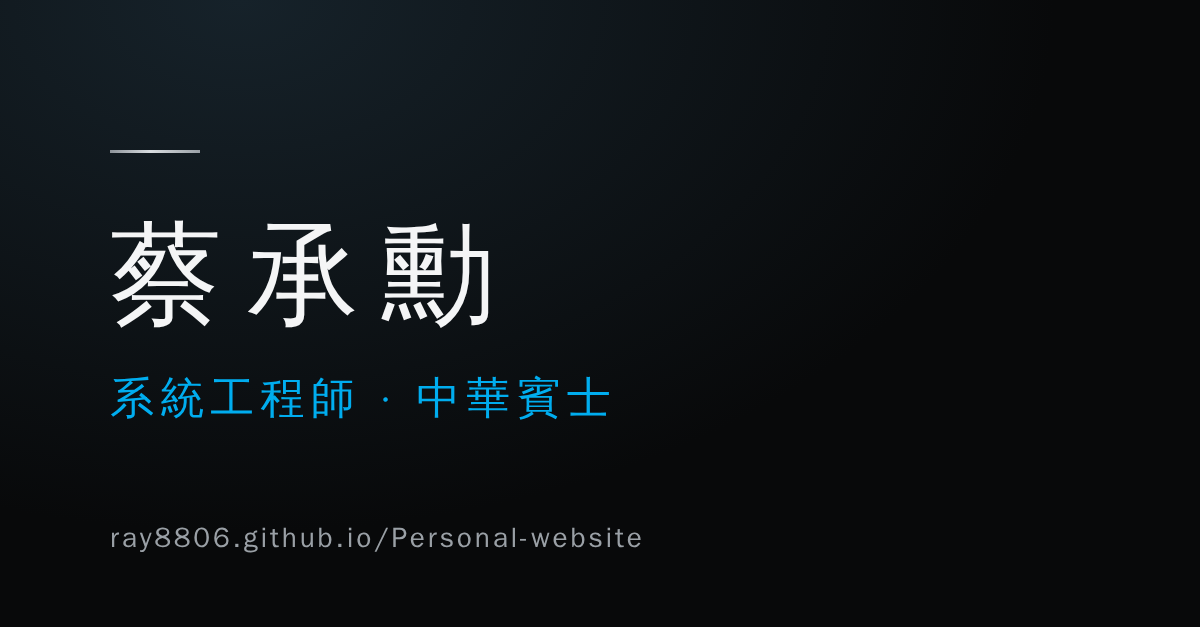
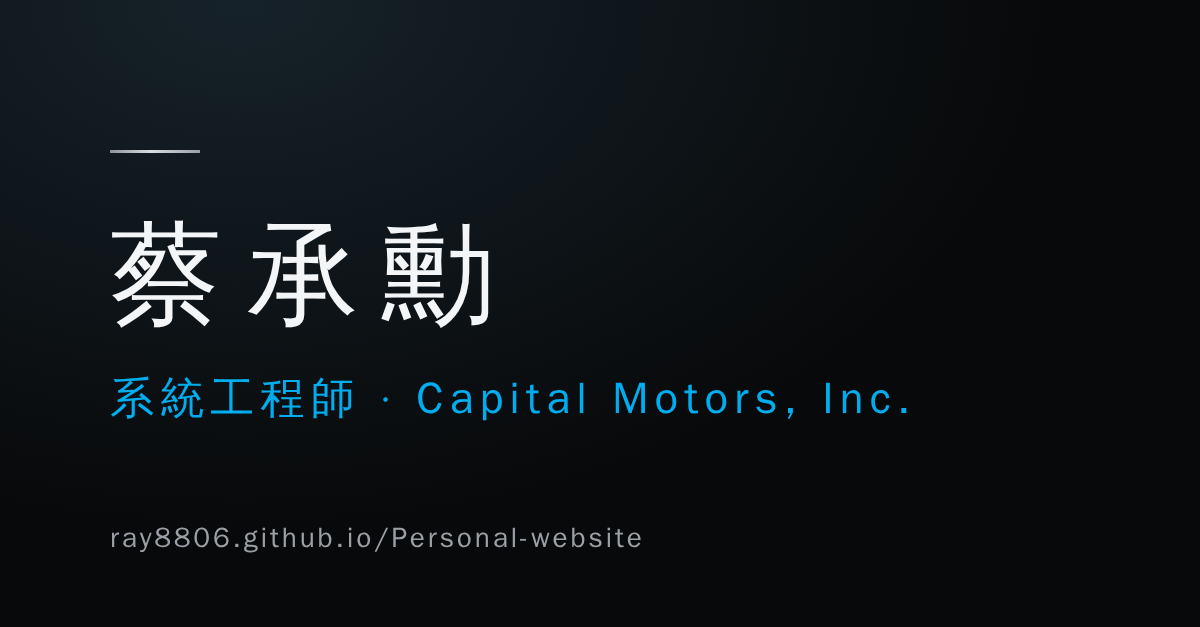
feat: 導覽列與分享預覽圖的公司名稱改為 Capital Motors, Inc.
Claude-Session: https://claude.ai/code/session_01VCxP4nGCAPvEcLbFPgiy4S

Changed region(s): [[0.3392, 0.6061, 0.6475, 0.6667], [0.6783, 0.6061, 0.74, 0.6667]]

diff --git a/style.css b/style.css
@@ -7,7 +7,7 @@ body{margin:0;background:var(--bg);color:var(--fg);font:300 17px/1.8 system-ui,-
 a{color:inherit;text-decoration:none}
 main,.nav,footer{max-width:960px;margin:0 auto;padding-left:24px;padding-right:24px}
 .nav{display:flex;justify-content:space-between;align-items:center;padding-top:20px;padding-bottom:20px;position:sticky;top:0;background:color-mix(in srgb,var(--bg) 85%,transparent);backdrop-filter:blur(10px);z-index:5;max-width:none;border-bottom:1px solid var(--line);padding-left:max(24px,calc((100% - 960px)/2 + 24px));padding-right:max(24px,calc((100% - 960px)/2 + 24px))}
-.logo{font-weight:600;font-size:1.2rem;letter-spacing:.2em}.logo span{color:var(--accent)}
+.logo{font-weight:600;font-size:1.05rem;letter-spacing:.08em;white-space:nowrap}.logo span{color:var(--accent)}
 .nav nav{display:flex;gap:26px;align-items:center;font-size:.8rem;letter-spacing:.14em;text-transform:uppercase}
 .nav nav a{color:var(--muted);transition:color .2s}.nav nav a:hover{color:var(--fg)}
 .nav button{background:none;border:1px solid var(--line);color:var(--fg);border-radius:999px;padding:3px 12px;cursor:pointer;font:inherit;font-size:.78rem}

diff --git a/index.html b/index.html
@@ -14,11 +14,11 @@
   <meta property="og:image:width" content="1200">
   <meta property="og:image:height" content="627">
   <meta name="twitter:card" content="summary_large_image">
-  <link rel="stylesheet" href="style.css?v=11">
+  <link rel="stylesheet" href="style.css?v=12">
 </head>
 <body>
   <header class="nav">
-    <a class="logo" href="#top">中華賓士<span>.</span></a>
+    <a class="logo" href="#top">Capital Motors, Inc.</a>
     <nav>
       <a href="#about" data-i18n="nav_about">關於我</a>
       <a href="#experience" data-i18n="nav_exp">經歷</a>
